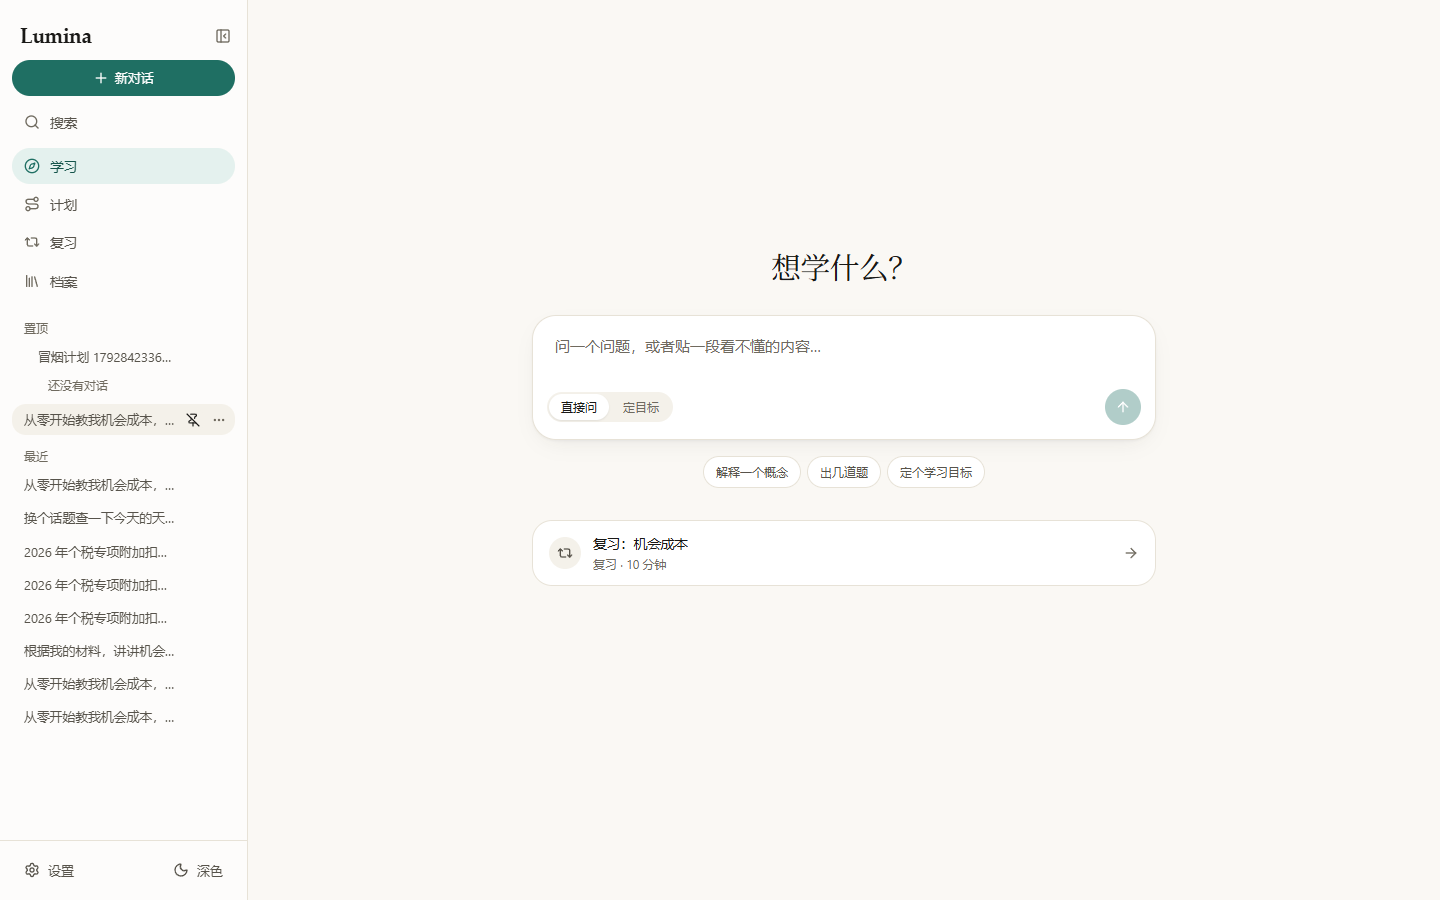
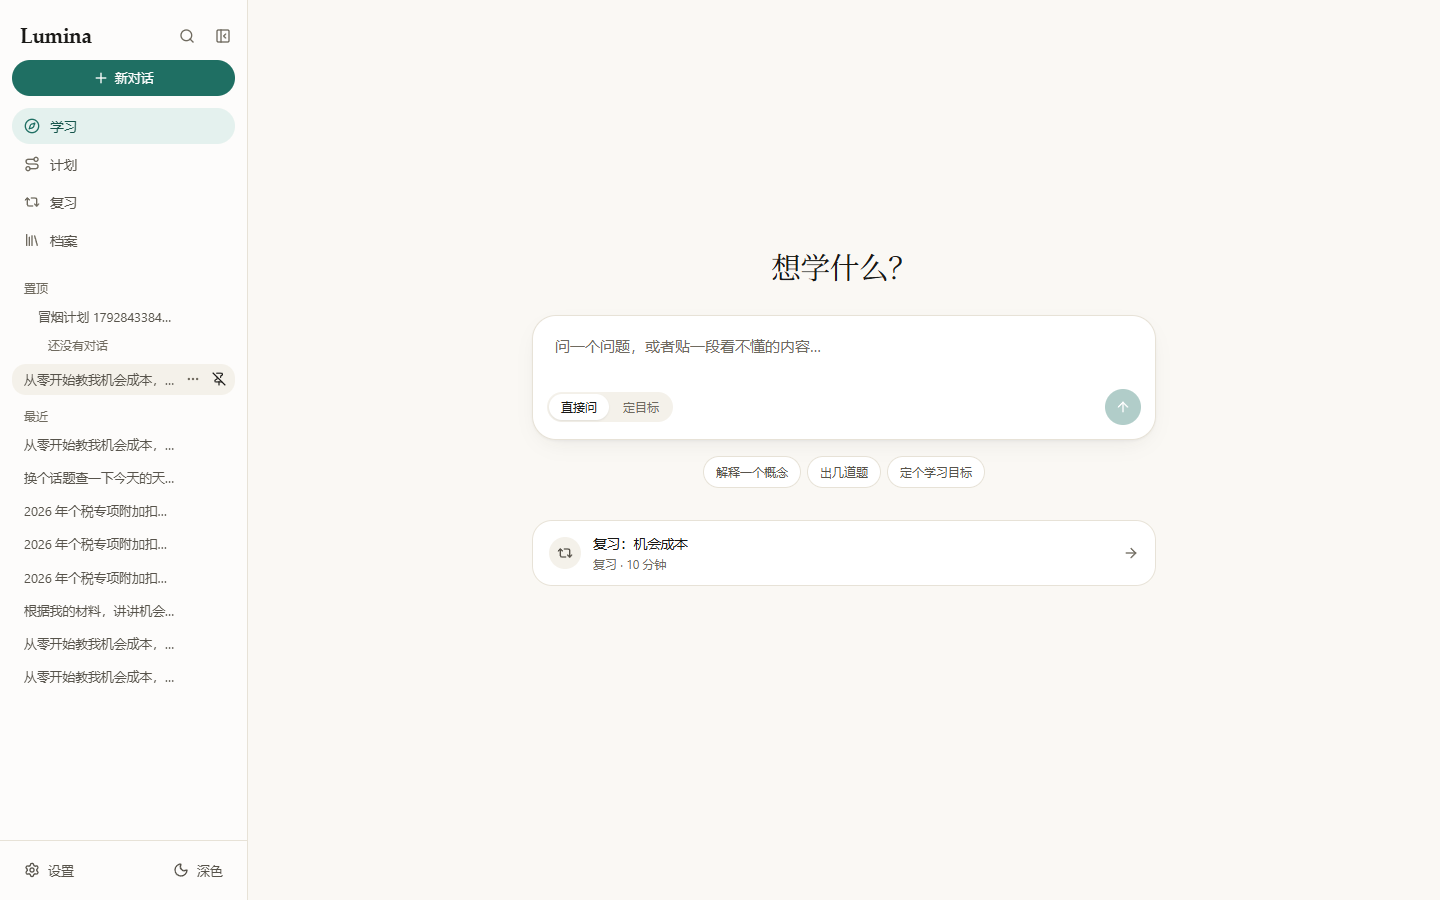
fix(侧栏): 搜索改成折叠按钮左边的放大镜，行内三个点与图钉换位，弹窗真正居中
按反馈微调：

- 展开态去掉一整行「搜索」文字：改成标题右边的放大镜，位置在折叠按钮左边；
  折叠成图标栏后放大镜仍在图标栏里
- 悬停会话条/计划条：右边先三个点、再图钉（原来图钉在前）
- 重命名 / 移至计划 / 删除弹窗改用 createPortal 挂到 document.body：
  侧栏带 backdrop-blur，fixed 会以侧栏为包含块，之前弹窗被挤在侧栏里，
  现在稳定显示在窗口中间

验证：tsc 0；build 通过（BUILD_ID ZcJ_HJKYR_3bo9X6kbJjA）并重启 3210；
浏览器总览 90/90（新增：放大镜在折叠按钮左边、搜索弹层水平居中）；
侧栏专项 33/33（新增：重命名/移至计划弹窗在窗口中间）；冒烟 83/83；
设置专项 45/45；单测 183/183

Changed region(s): [[0.0, 0.3111, 0.125, 0.8089], [0.0, 0.0933, 0.1875, 0.28]]

diff --git a/src/components/layout/SidebarChats.tsx b/src/components/layout/SidebarChats.tsx
@@ -8,6 +8,7 @@
  */
 import Link from "next/link";
 import { usePathname, useRouter } from "next/navigation";
+import { createPortal } from "react-dom";
 import { useEffect, useMemo, useRef, useState } from "react";
 import {
   ArrowUpRight,
@@ -152,15 +153,6 @@ export default function SidebarChats({
         {s.title}
       </Link>
       <div className="flex shrink-0 items-center gap-0.5 opacity-0 transition-opacity focus-within:opacity-100 group-hover:opacity-100">
-        <button
-          type="button"
-          onClick={() => void toggleSessionPin(s)}
-          aria-label={s.pinnedAt ? "取消置顶" : "置顶对话"}
-          title={s.pinnedAt ? "取消置顶" : "置顶"}
-          className="grid size-6 place-items-center rounded-full text-ink3 transition-colors hover:bg-panel2 hover:text-ink"
-        >
-          {s.pinnedAt ? <PinOff className="size-3.5" /> : <Pin className="size-3.5" />}
-        </button>
         <OverflowMenu compact ariaLabel="对话操作" align="right">
           <MenuItem onClick={() => setRename({ type: "session", session: s })}>
             <Pencil className="size-3.5" />
@@ -179,6 +171,15 @@ export default function SidebarChats({
             删除
           </MenuItem>
         </OverflowMenu>
+        <button
+          type="button"
+          onClick={() => void toggleSessionPin(s)}
+          aria-label={s.pinnedAt ? "取消置顶" : "置顶对话"}
+          title={s.pinnedAt ? "取消置顶" : "置顶"}
+          className="grid size-6 place-items-center rounded-full text-ink3 transition-colors hover:bg-panel2 hover:text-ink"
+        >
+          {s.pinnedAt ? <PinOff className="size-3.5" /> : <Pin className="size-3.5" />}
+        </button>
       </div>
     </div>
   );
@@ -210,15 +211,6 @@ export default function SidebarChats({
             ) : null}
           </button>
           <div className="flex shrink-0 items-center gap-0.5 opacity-0 transition-opacity focus-within:opacity-100 group-hover:opacity-100">
-            <button
-              type="button"
-              onClick={() => void togglePlanPin(p)}
-              aria-label={p.pinnedAt ? "取消置顶" : "置顶计划"}
-              title={p.pinnedAt ? "取消置顶" : "置顶"}
-              className="grid size-6 place-items-center rounded-full text-ink3 transition-colors hover:bg-panel2 hover:text-ink"
-            >
-              {p.pinnedAt ? <PinOff className="size-3.5" /> : <Pin className="size-3.5" />}
-            </button>
             <OverflowMenu compact ariaLabel="计划操作" align="right">
               <MenuItem onClick={() => setRename({ type: "plan", plan: p })}>
                 <Pencil className="size-3.5" />
@@ -237,6 +229,15 @@ export default function SidebarChats({
                 删除
               </MenuItem>
             </OverflowMenu>
+            <button
+              type="button"
+              onClick={() => void togglePlanPin(p)}
+              aria-label={p.pinnedAt ? "取消置顶" : "置顶计划"}
+              title={p.pinnedAt ? "取消置顶" : "置顶"}
+              className="grid size-6 place-items-center rounded-full text-ink3 transition-colors hover:bg-panel2 hover:text-ink"
+            >
+              {p.pinnedAt ? <PinOff className="size-3.5" /> : <Pin className="size-3.5" />}
+            </button>
           </div>
         </div>
         {open ? (
@@ -283,6 +284,8 @@ export default function SidebarChats({
         </section>
       ) : null}
 
+      {/* 弹窗挂在 body 上，避免被侧栏的 backdrop-blur 困在侧栏里 */}
+      <DialogPortal>
       {/* 重命名：会话和计划共用一个弹窗 */}
       <RenameDialog target={rename} onClose={() => setRename(null)} onDone={notify} />
 
@@ -299,8 +302,16 @@ export default function SidebarChats({
       />
 
       <MoveDialog session={move} plans={plans} onClose={() => setMove(null)} onDone={notify} />
+      </DialogPortal>
     </>
   );
+}
+
+/** 侧栏在 backdrop-blur 里，fixed 定位会以侧栏为包含块；弹窗统一挂到 body 才在页面中间 */
+function DialogPortal({ children }: { children: React.ReactNode }) {
+  const [mounted, setMounted] = useState(false);
+  useEffect(() => setMounted(true), []);
+  return mounted ? createPortal(children, document.body) : null;
 }
 
 function RenameDialog({

diff --git a/src/components/layout/AppShell.tsx b/src/components/layout/AppShell.tsx
@@ -122,11 +122,21 @@ export default function AppShell({ children }: { children: React.ReactNode }) {
           <>
             <Link
               href="/"
-              className="font-serif text-[21px] font-semibold tracking-tight text-ink transition-opacity hover:opacity-70"
+              className="mr-auto font-serif text-[21px] font-semibold tracking-tight text-ink transition-opacity hover:opacity-70"
               title="Lumina"
             >
               Lumina
             </Link>
+            {/* 搜索：放大镜放在折叠按钮左边 */}
+            <button
+              type="button"
+              onClick={() => setSearchOpen(true)}
+              aria-label="搜索"
+              title="搜索"
+              className="grid size-8 shrink-0 place-items-center rounded-full text-ink3 transition-colors hover:bg-panel2 hover:text-ink"
+            >
+              <Search className="size-4" />
+            </button>
             <button
               type="button"
               onClick={toggleCollapsed}
@@ -167,17 +177,8 @@ export default function AppShell({ children }: { children: React.ReactNode }) {
         </Link>
       </div>
 
-      <div className="px-3 pb-1">
-        {expanded ? (
-          <button
-            type="button"
-            onClick={() => setSearchOpen(true)}
-            className="flex w-full items-center gap-2.5 rounded-xl px-3 py-2 text-[13.5px] text-ink2 transition-colors hover:bg-panel2 hover:text-ink"
-          >
-            <Search className="size-4 text-ink3" />
-            <span>搜索</span>
-          </button>
-        ) : (
+      {expanded ? null : (
+        <div className="px-3 pb-1">
           <button
             type="button"
             onClick={() => setSearchOpen(true)}
@@ -187,8 +188,8 @@ export default function AppShell({ children }: { children: React.ReactNode }) {
           >
             <Search className="size-4 text-ink3" />
           </button>
-        )}
-      </div>
+        </div>
+      )}
 
       <nav className={cx("mt-1 flex flex-col gap-0.5", expanded ? "px-3" : "px-2")}>
         {NAV.map((item) => {

diff --git a/docs/AUDIT_2026-10-24.md b/docs/AUDIT_2026-10-24.md
@@ -971,3 +971,28 @@ node scripts/audit/repro.cjs
 | 设置专项 | **45/45** |
 | 单元/集成 | **183/183** |
 | 截图 | `sidebar-sections.png`、`sidebar-row-actions.png`、`sidebar-session-menu.png`、`sidebar-plan-menu.png`、`sidebar-pinned.png`、`sidebar-collapsed.png` |
+
+---
+
+## 19. 侧栏微调：放大镜搜索、三个点在左图钉在右、弹窗真正居中
+
+反馈："搜索放在折叠按钮左边用放大镜表示，然后悬停三个点和置顶按钮位置互换，还有重命名和移至计划都是点击之后中间弹窗。"
+
+### 19.1 改动
+
+1. **搜索挪到顶部**：展开态不再占一行文字「搜索」，改成标题右边的放大镜，位置就在折叠按钮左边；折叠成图标栏后放大镜仍在图标栏里
+2. **行内按钮换位**：悬停会话条 / 计划条时，右边先出现**三个点**、再出现**图钉**（原来是图钉在前）
+3. **弹窗真正居中**：侧栏带 `backdrop-blur`，`position: fixed` 的弹窗会以侧栏为包含块，结果弹窗被挤在侧栏里。现在重命名 / 移至计划 / 删除三个弹窗都通过 `createPortal` 挂到 `document.body`，稳定显示在窗口中间
+
+### 19.2 验证
+
+| 项目 | 结果 |
+|---|---|
+| `tsc --noEmit` | 0 错误 |
+| `next build` | 通过（`BUILD_ID ZcJ_HJKYR_3bo9X6kbJjA`），3210 已重启，health 200 |
+| 浏览器总览 | **90/90**（新增：侧栏有放大镜、放大镜在折叠按钮左边、搜索弹层水平居中） |
+| 侧栏专项 | **33/33**（新增：重命名弹窗在窗口中间、移至计划弹窗在窗口中间） |
+| API 冒烟 | **83/83** |
+| 设置专项 | **45/45** |
+| 单元/集成 | **183/183** |
+| 截图 | 已重拍 `sidebar-search.png`、`sidebar-sections.png`、`sidebar-row-actions.png`、`sidebar-session-menu.png`、`sidebar-plan-menu.png`、`sidebar-pinned.png`、`sidebar-collapsed.png` |
